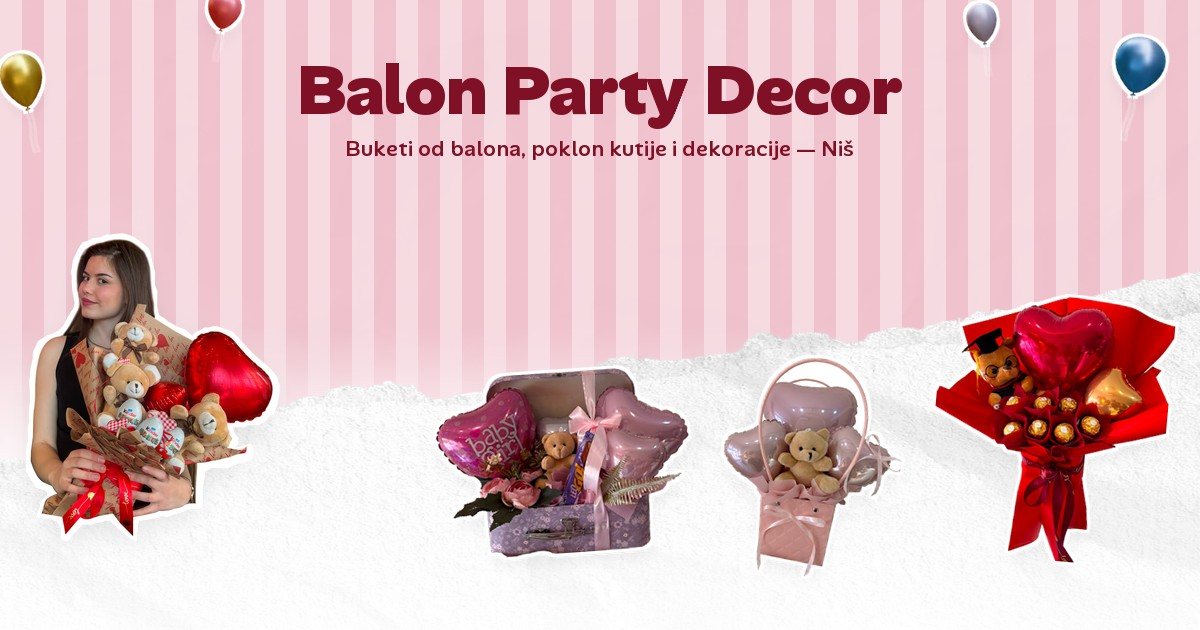
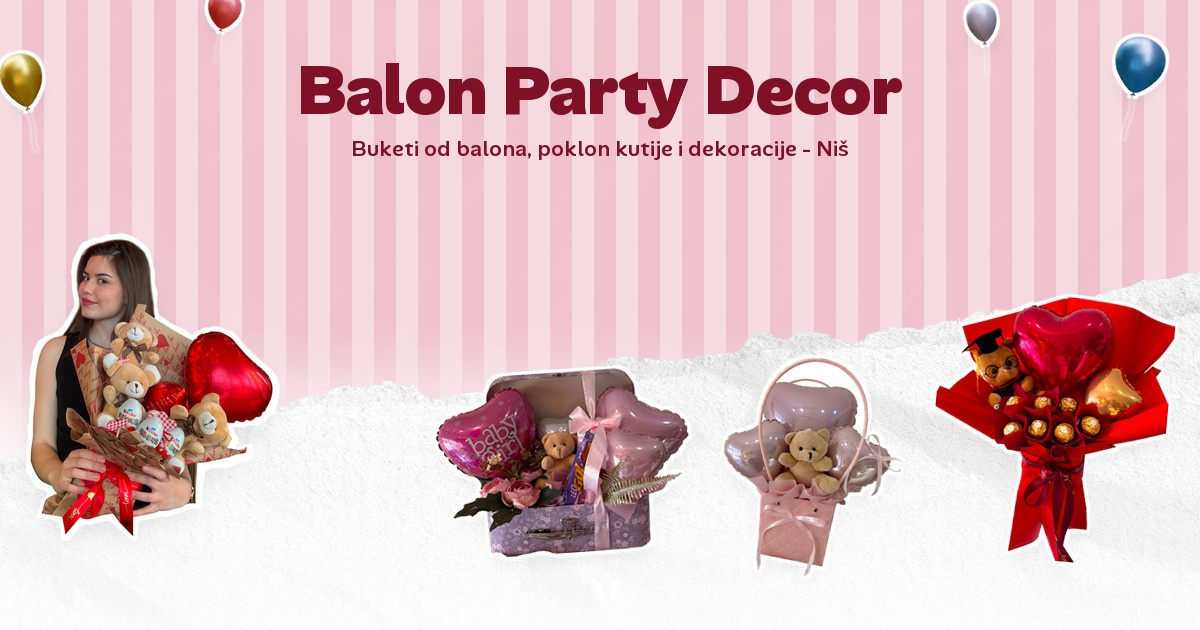
Use a plain hyphen instead of an em dash in visible text
Replaces the em dash everywhere a visitor or a search engine sees it: the
homepage meta description and h1, the gallery title, both Open Graph alt
texts, and the subtitle baked into the OG image (regenerated). Em dashes
left in source comments, which nobody reads but us.

Changed region(s): [[0.2775, 0.2111, 0.7092, 0.2714]]

diff --git a/src/data/site.ts b/src/data/site.ts
@@ -16,7 +16,7 @@ export const SITE = {
 
   /** Sivi opis ispod linka. Google seče oko 155 karaktera — drži ispod. */
   description:
-    "Ručno pravljeni buketi od balona, poklon kutije i dekoracije za rođendane, baby shower i krštenja. Radnja u Nišu — dostava po celom gradu.",
+    "Ručno pravljeni buketi od balona, poklon kutije i dekoracije za rođendane, baby shower i krštenja. Radnja u Nišu - dostava po celom gradu.",
 
   /** sr_RS govori Fejsbuku/Vajberu da je sadržaj na srpskom. */
   locale: "sr_RS",
@@ -72,7 +72,7 @@ export const OG_IMAGE = {
   url: "/opengraph-image.jpg",
   width: 1200,
   height: 630,
-  alt: "Buketi od balona, poklon kutije i balonske dekoracije — Balon Party Decor, Niš",
+  alt: "Buketi od balona, poklon kutije i balonske dekoracije - Balon Party Decor, Niš",
 } as const;
 
 /** Apsolutni URL iz putanje — npr. abs("/galerija"). */

diff --git a/src/components/Hero.tsx b/src/components/Hero.tsx
@@ -124,7 +124,7 @@ export default function Hero() {
           className="pointer-events-none absolute inset-x-0 top-[19%] z-30 mx-auto flex max-w-[820px] flex-col items-center px-6 text-center sm:top-[16%] min-[1440px]:top-[13%]"
         >
           <h1 className="font-display text-[9vw] leading-[0.9] font-extrabold tracking-[-0.02em] text-[#801026] md:text-[56px] lg:text-[80px] lg:leading-[72px]">
-            Tražite poklon —
+            Tražite poklon -
             <br />
             na pravom ste mestu
           </h1>

diff --git a/src/app/galerija/page.tsx b/src/app/galerija/page.tsx
@@ -7,7 +7,7 @@ import { BALONI } from "@/data/baloni";
 import { DEKORACIJE } from "@/data/dekoracije";
 import { SITE, OG_IMAGE, abs } from "@/data/site";
 
-const NASLOV = "Galerija radova — baloni i dekoracije";
+const NASLOV = "Galerija radova - baloni i dekoracije";
 const OPIS =
   "Fotografije naših buketa od balona, poklon kutija i dekoracija za rođendane, baby shower, gender reveal i krštenja. Balon Party Decor, Niš.";
 

diff --git a/scripts/generate-og.py b/scripts/generate-og.py
@@ -175,7 +175,7 @@ balloon("plava", 1104, 6, 78, 12)
 title_f = load_font(70, 800)
 sub_f = load_font(22, 500)
 draw_tracked(d, (W / 2, 44), "Balon Party Decor", title_f, WINE + (255,), tracking=-1.4)
-sub = "Buketi od balona, poklon kutije i dekoracije — Niš"
+sub = "Buketi od balona, poklon kutije i dekoracije - Niš"
 d.text((W / 2, 134), sub, font=sub_f, fill=WINE + (205,), anchor="ma")
 
 # 6. Pocepan papir — razvučen po širini da nagib bude blaži nego na hero-u,
